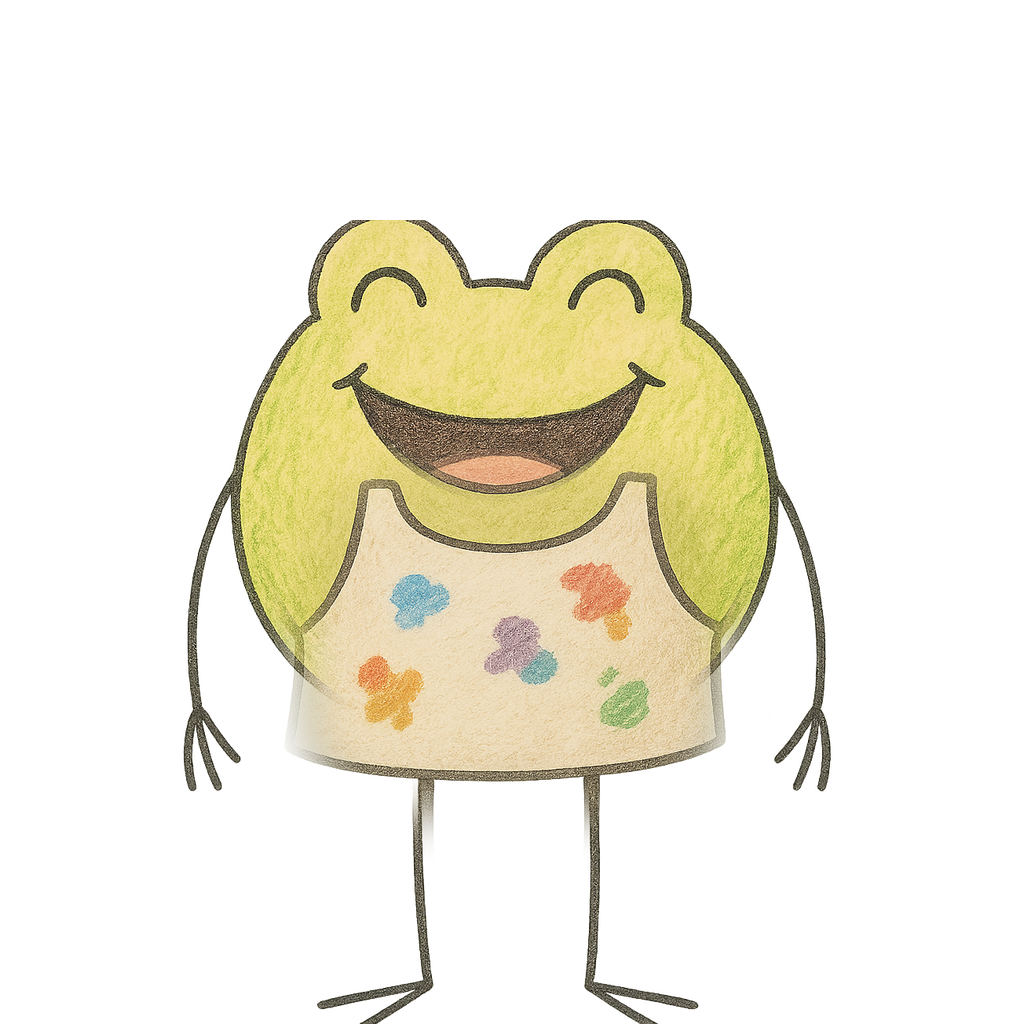
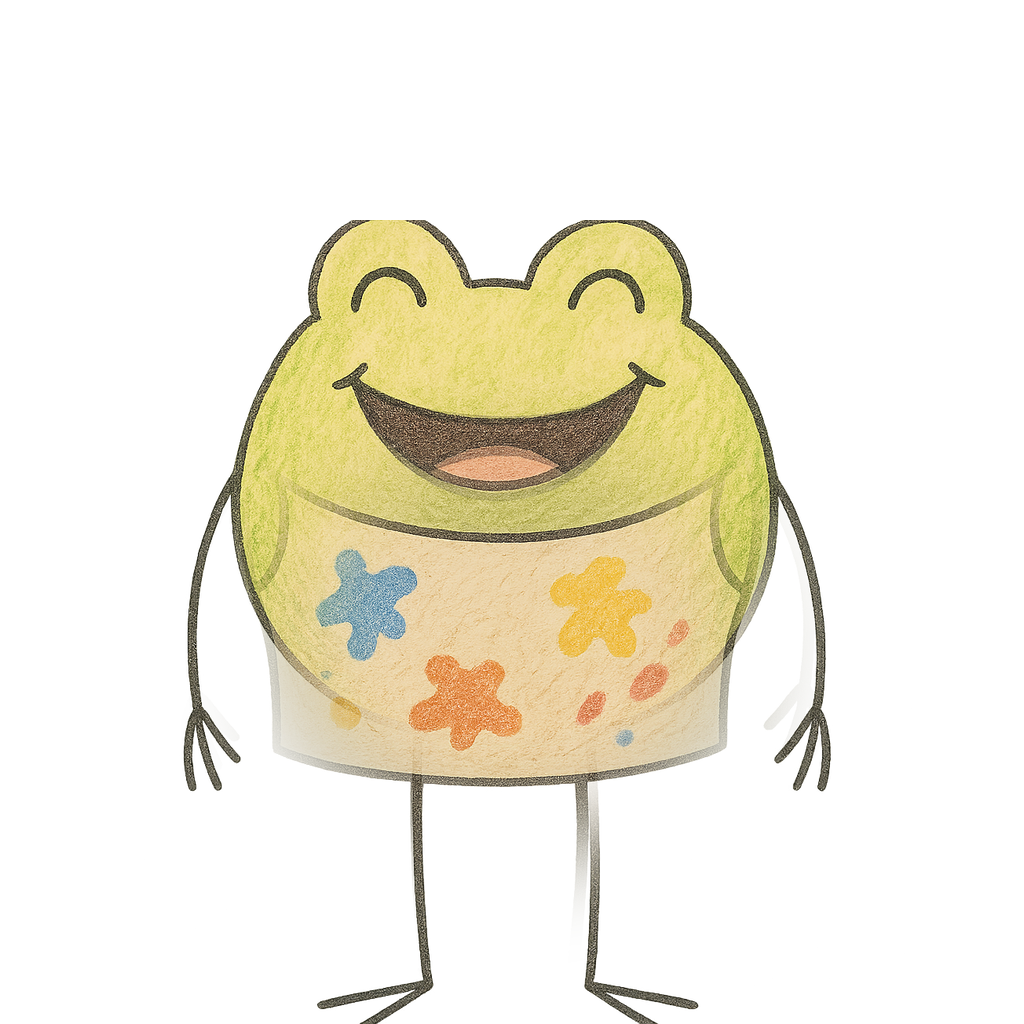
fix(collection): soft elliptical torso mask — outfits blend into the body
The rounded-rectangle torso mask (radius 120, blur 26) produced visible
rectangular seams where outfits met the body — wedding-suit's bottom-left
corner was the worst offender, hard horizontal line at y=754. Replaced
with an ellipse (220, 280, 808, 800) blurred by 60px so the transition
zone is wide enough to feather organically.

Mask centre still alpha=0 (AI paints the outfit there); corners stay
alpha=255 (face, eyes, hands, feet untouched); the ~80px ellipse edge
runs alpha ~135-170, a long, smooth gradient.

Re-rolled all 11 outfits at high through the new mask ($1.87 spend).
Every outfit now feathers into the body shape — no rectangular ends,
no hard vertical / horizontal edges.

Plate (candidate-1) preserved — the regen ran the ensure_base_plate
helper which would've rebuilt the plate from happy.png if both files
were missing; restored from candidates/frog-1.png after.

Also adds scripts/__pycache__/ to .gitignore (helper-script imports
left a stale entry behind).

Changed region(s): [[0.25, 0.4062, 0.7812, 0.875], [0.75, 0.6875, 0.7812, 0.7188]]

diff --git a/scripts/gen-collection-art.py b/scripts/gen-collection-art.py
@@ -46,9 +46,12 @@ REF_FROG = REPO / "public" / "character-ref" / "mr-frog" / "happy.png"
 CANVAS = 1024
 FROG_H = 884
 FROG_BOTTOM = 1004
-# Torso mask: the rounded region an outfit is painted into — clear of the
-# eyes (above) and feet (below) so those never move.
-TORSO_MASK_BOX = (250, 312, 778, 754)
+# Torso mask: an ELLIPSE that follows the body silhouette (taller-ish, soft
+# top, soft bottom) so the AI's outfit feathers organically into the body
+# rather than ending at a rectangular boundary. A big blur on top means the
+# transition spans many pixels — no visible suit-meets-skin seams.
+TORSO_MASK_ELLIPSE = (220, 280, 808, 800)
+TORSO_MASK_BLUR = 60
 
 # --- style -----------------------------------------------------------------
 STYLE = (
@@ -192,10 +195,11 @@ def ensure_base_plate() -> tuple[Path, Path]:
     canvas.save(plate)
 
     # Mask: opaque (keep) everywhere, a feathered transparent (edit) torso.
+    # Ellipse + heavy blur for organic, seamless outfit edges.
     m = Image.new("L", (CANVAS, CANVAS), 255)
     hole = Image.new("L", (CANVAS, CANVAS), 255)
-    ImageDraw.Draw(hole).rounded_rectangle(TORSO_MASK_BOX, radius=120, fill=0)
-    hole = hole.filter(ImageFilter.GaussianBlur(26))
+    ImageDraw.Draw(hole).ellipse(TORSO_MASK_ELLIPSE, fill=0)
+    hole = hole.filter(ImageFilter.GaussianBlur(TORSO_MASK_BLUR))
     mask_img = Image.merge("RGBA", (m, m, m, hole))
     mask_img.save(mask)
     print(f"  built base plate + torso mask → {BASE_DIR.relative_to(REPO)}/")
